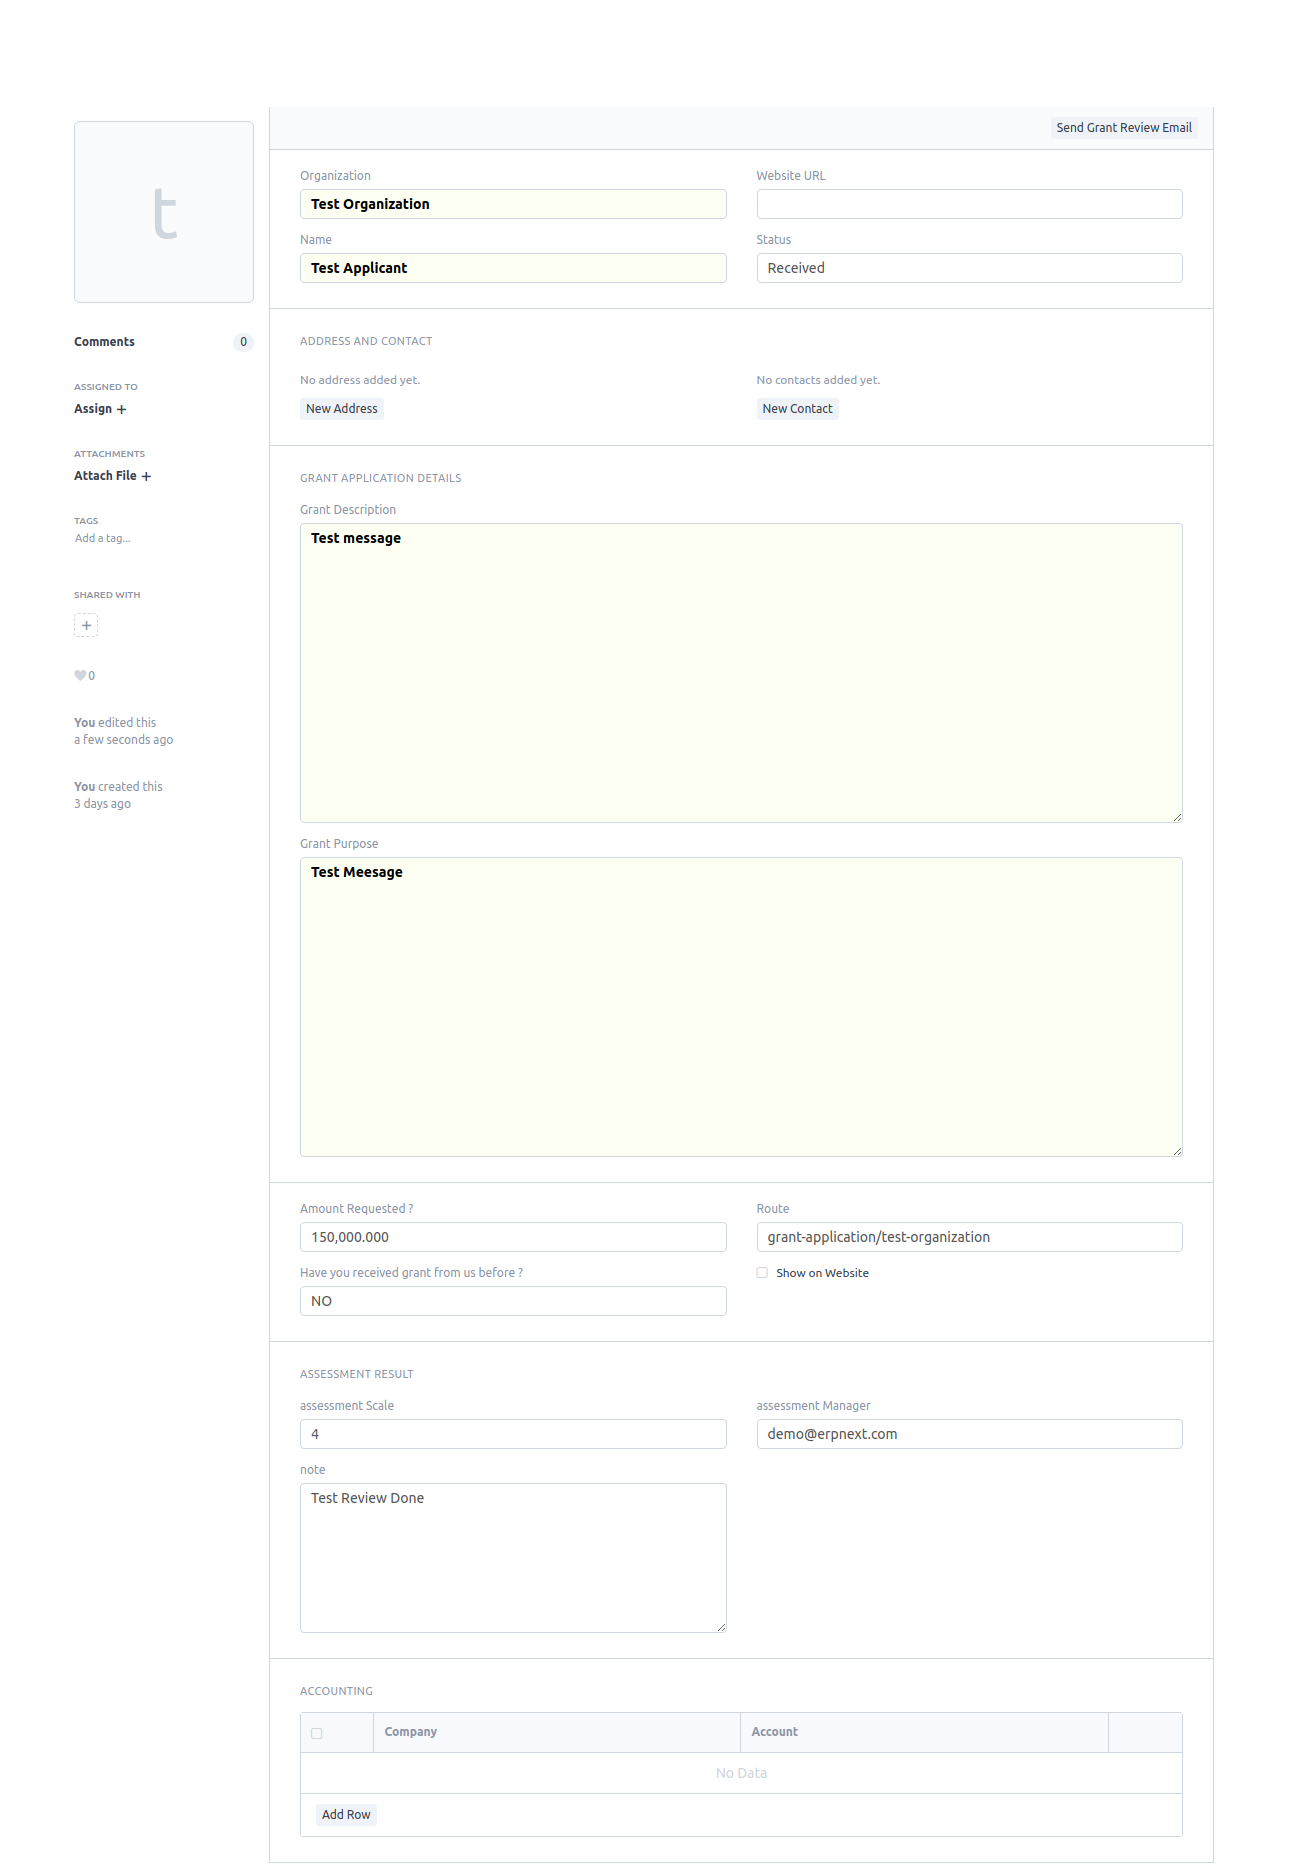
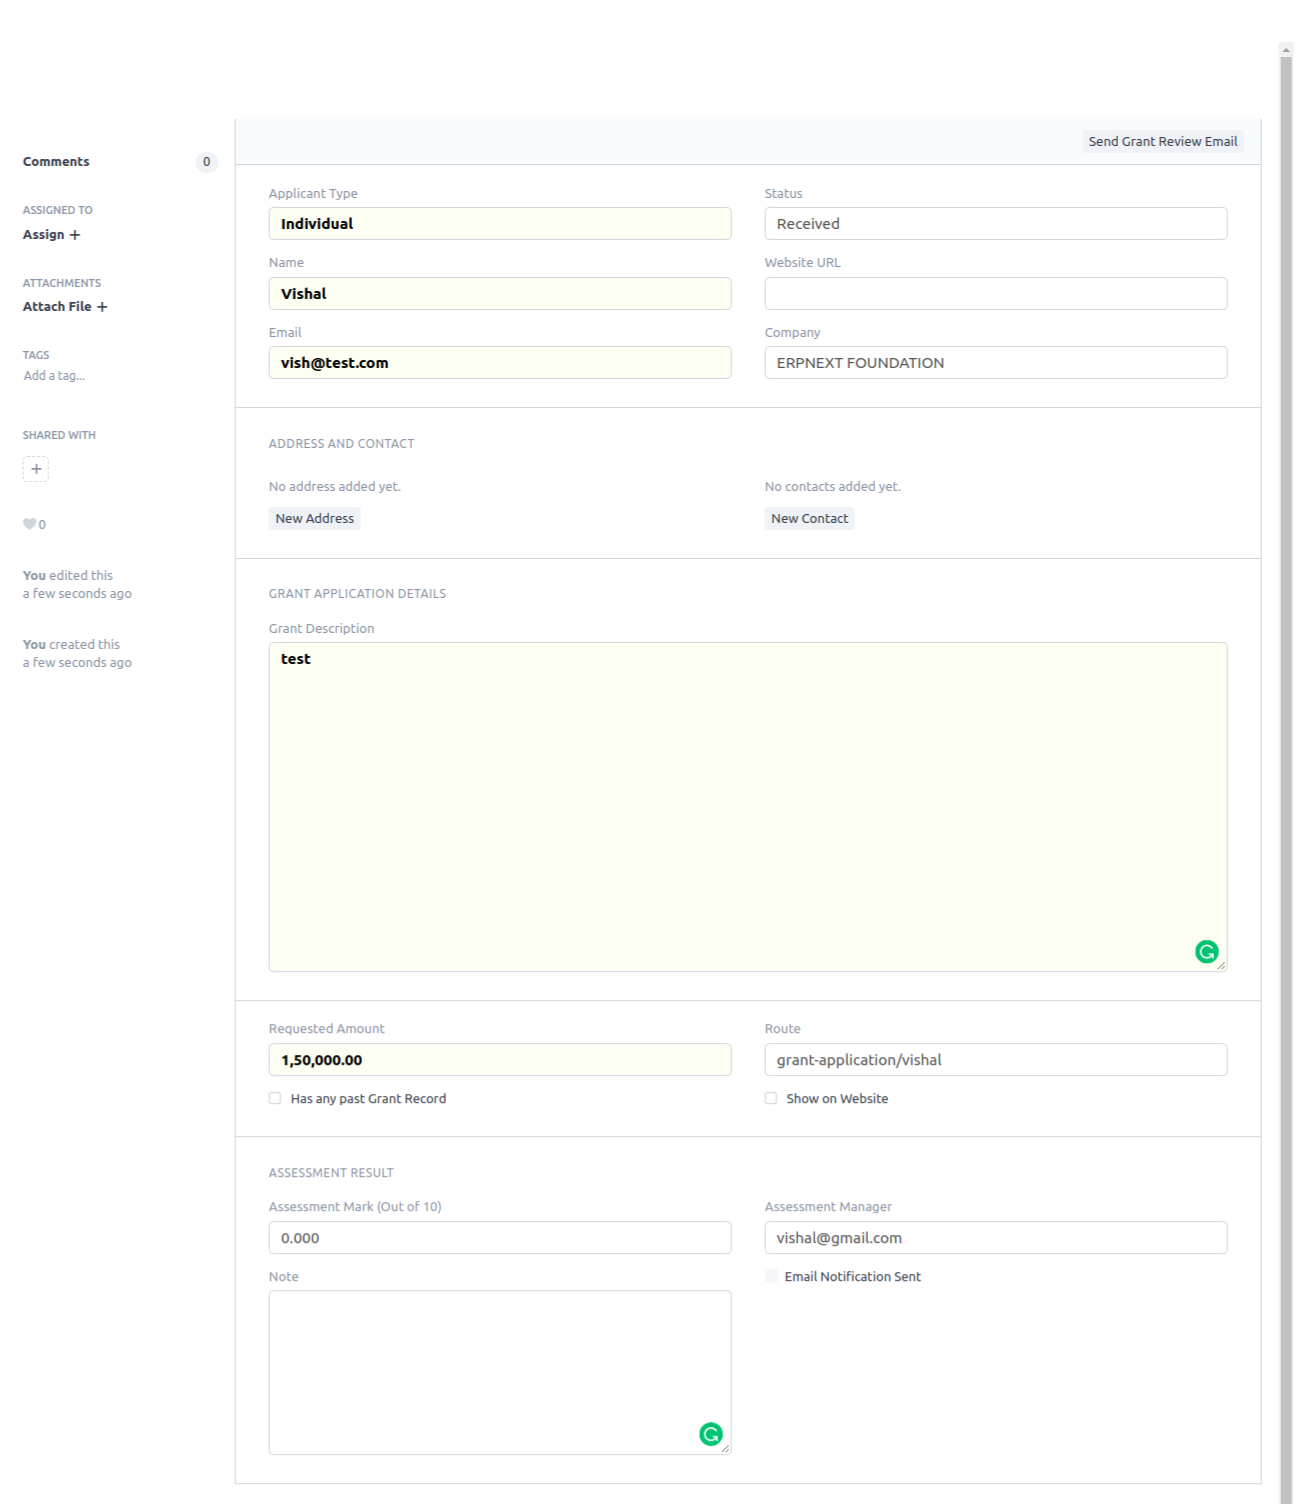
[fix] Modification in Non Profit docs (#11862)

diff --git a/erpnext/docs/user/manual/en/non_profit/Grant Application/grant_application.md b/erpnext/docs/user/manual/en/non_profit/Grant Application/grant_application.md
@@ -7,7 +7,12 @@ To Generate Online Grant Application go to:
 > My Account on website > Grant Application from sidebar > Apply for new Grant Application.
 
 
-<img class="screenshot" alt="Online Grant Application" src="/docs/assets/img/non_profit/grant_application/online_grant_application.png">
+<img class="screenshot" alt="Online Grant Application row" src="/docs/assets/img/non_profit/grant_application/grant_application_row.png">
+
+<img class="screenshot" alt="Online Grant Application" src="/docs/assets/img/non_profit/grant_application/online_grant_application_1.png">
+
+<img class="screenshot" alt="Online Grant Application" src="/docs/assets/img/non_profit/grant_application/grant_portal.png">
+
 
 To Generate Grant Application go to:
 
@@ -24,7 +29,7 @@ To Generate Grant Application go to:
 
 **Address and Contact Section:** This Section linked to address and contact doctypes.
 
-**Grant Application Details Section:** This section contains information about grant description and grant purpose.
+**Grant Application Details Section:** This section contains information about grant description.
 
 **Amount:** Amount field describe requested amount by an applicant.
 
@@ -33,8 +38,6 @@ To Generate Grant Application go to:
 **Assessment Result Section:** In This section when status field selected as received, send Grant Review Email button appear on the top right corner which sends grant URL to Assessment Manager.
 
 After reviewing grant. Grant Assessment Manager scale application at 0 - 9 point and left a note about a grant.
-
-**Accounting Section:** This section allowed to set member accounting details such as Account Payable or something.
 
 
 {next}

diff --git a/erpnext/docs/user/manual/en/non_profit/Volunteer/volunteer.md b/erpnext/docs/user/manual/en/non_profit/Volunteer/volunteer.md
@@ -16,8 +16,6 @@ To create new Volunteer go to:
 
 **Address and Contact Section:** This Section linked to address and contact doctypes.
 
-**Accounting Section:** This section allowed to set member accounting details such as Account Receivable.
-
 **Volunteer Availability Section:** This section is child table which contains select field about volunteer availability. a volunteer can select availability such as weekly, morning etc
 
 **Volunteer Skills Section:** This section is child table which contains data field about the volunteer skills. a volunteer can add multiple skill for eg. Desk Job,

diff --git a/erpnext/docs/user/manual/en/non_profit/index.md b/erpnext/docs/user/manual/en/non_profit/index.md
@@ -8,7 +8,14 @@ Donor Management, Event and Grant etc
 
 
 ### Desk Page
-<img class="screenshot" alt="Non Profit Domain" src="/docs/assets/img/non_profit/non_profit_domain.png">
+<img class="screenshot" >
+
+<div class="section" style="padding-top: 0px; margin-top: -30px;">
+	<div class="fake-browser-frame">
+		<img class="img-responsive browser-image feature-image" alt="Non Profit Domain"
+			src="/docs/assets/img/non_profit/non_profit_domain.png">
+	</div>
+</div>
 
 ### Non Profit Domain
 <img class="screenshot" alt="Non Profit" src="/docs/assets/img/non_profit/module.png">

diff --git a/erpnext/docs/user/manual/en/non_profit/Membership/member.md b/erpnext/docs/user/manual/en/non_profit/Membership/member.md
@@ -14,10 +14,8 @@ To create new Member go to:
 
 **Membership Type:** Membership Type is link field to Membership Type Doctype. Member can select Available Doctype.
 
-**Expires On:** This Field fetch membership end date details from membership doctype.
+**Membership Expiry Date:** This Field fetch membership end date details from membership doctype.
 
 **Address and Contact Section:** This Section linked to address and contact doctypes.
-
-**Accounting Section:** This section allowed to set member accounting details such as Account Receivable.
 
 {next}
